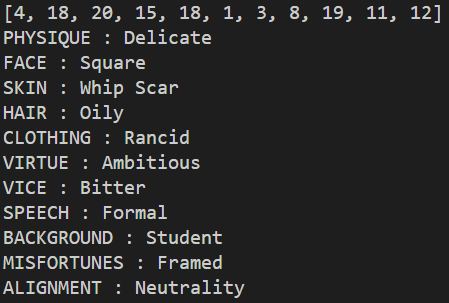
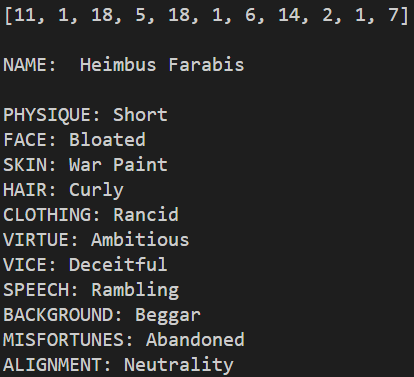
added name generator, updated create_character, updated assets

Changed region(s): [[0.0, 0.2673, 0.6087, 1.0], [0.0, 0.0, 0.9855, 0.2376]]

diff --git a/name_generator.py b/name_generator.py
@@ -1,0 +1,20 @@
+import random
+
+# Name generator source https://python-forum.io/thread-18779.html
+ 
+FIRST = ['A', 'Ag', 'Ar', 'Ara', 'Anu', 'Bal', 'Bil', 'Boro', 'Bern', 'Bra', 'Cas', 'Cere', 'Co', 'Con',
+    'Cor', 'Dag', 'Doo', 'Elen', 'El', 'En', 'Eo', 'Faf', 'Fan', 'Fara', 'Fre', 'Fro', 'Ga', 'Gala', 'Has', 
+    'He', 'Heim', 'Ho', 'Isil', 'In', 'Ini', 'Is', 'Ka', 'Kuo', 'Lance', 'Lo', 'Ma', 'Mag', 'Mi', 'Mo', 
+    'Moon', 'Mor', 'Mora', 'Nin', 'O', 'Obi', 'Og', 'Pelli', 'Por', 'Ran', 'Rud', 'Sam',  'She', 'Sheel', 
+    'Shin', 'Shog', 'Son', 'Sur', 'Theo', 'Tho', 'Tris', 'U', 'Uh', 'Ul', 'Vap', 'Vish', 'Ya', 'Yo', 'Yyr']
+ 
+SECOND = ['ba', 'bis', 'bo', 'bus', 'da', 'dal', 'dagz', 'den', 'di', 'dil', 'din', 'do', 'dor', 'dra', 
+    'dur', 'gi', 'gauble', 'gen', 'glum', 'go', 'gorn', 'goth', 'had', 'hard', 'is', 'ki', 'koon', 'ku', 
+    'lad', 'ler', 'li', 'lot', 'ma', 'man', 'mir', 'mus', 'nan', 'ni', 'nor', 'nu', 'pian', 'ra', 'rak', 
+    'ric', 'rin', 'rum', 'rus', 'rut', 'sek', 'sha', 'thos', 'thur', 'toa', 'tu', 'tur', 'tred', 'varl',
+    'wain', 'wan', 'win', 'wise', 'ya']
+ 
+def fantasy_name():
+    return random.choice(FIRST) + random.choice(SECOND) + ' ' +  random.choice(FIRST) + random.choice(SECOND)
+
+print(fantasy_name())

diff --git a/create_character.py b/create_character.py
@@ -1,6 +1,8 @@
 import pandas as pd
 import random
 
+import name_generator as ng
+
 class Knave:
 
     number_of_dice = 11
@@ -32,7 +34,7 @@ class Knave:
 # Import traits and set the index to dice rolls
 traits = pd.read_csv('assets/knave-traits.csv')
 traits = traits.set_index('ROLL')
-print(traits)
 
 Knave.roll_em()
+print('\nNAME: ', ng.fantasy_name(), '\n')
 Knave.fresh_meat()
